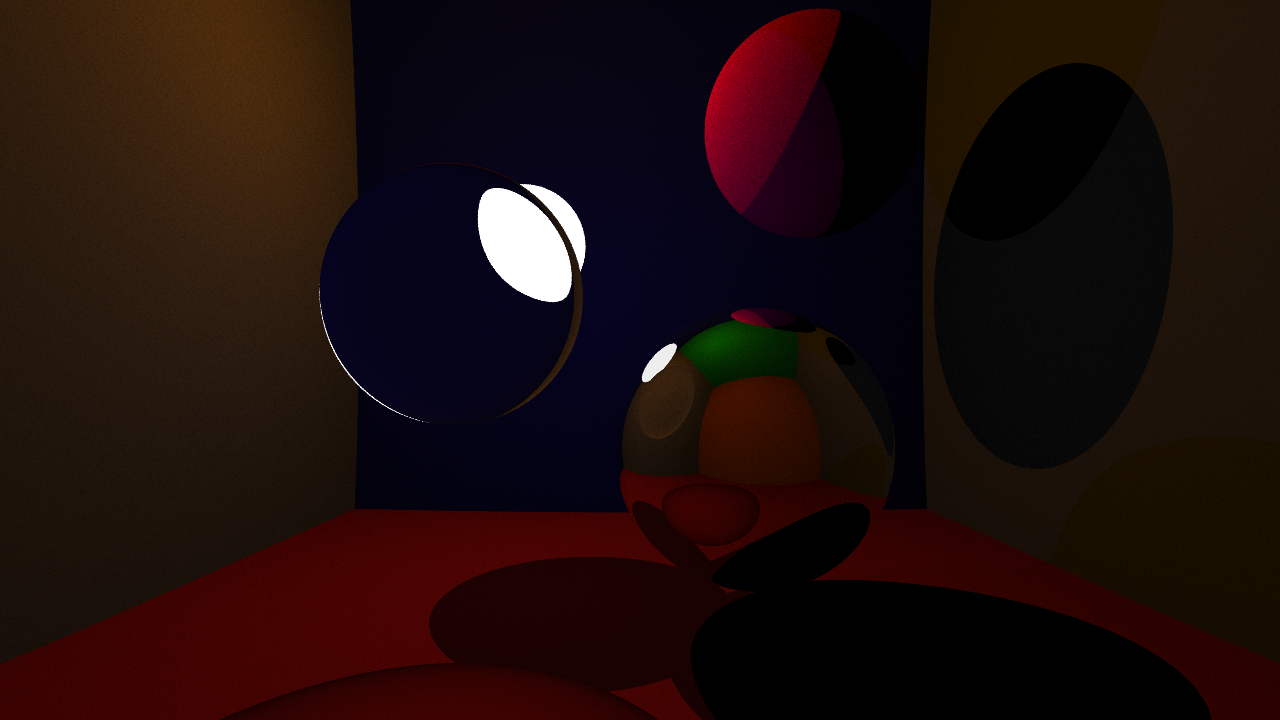
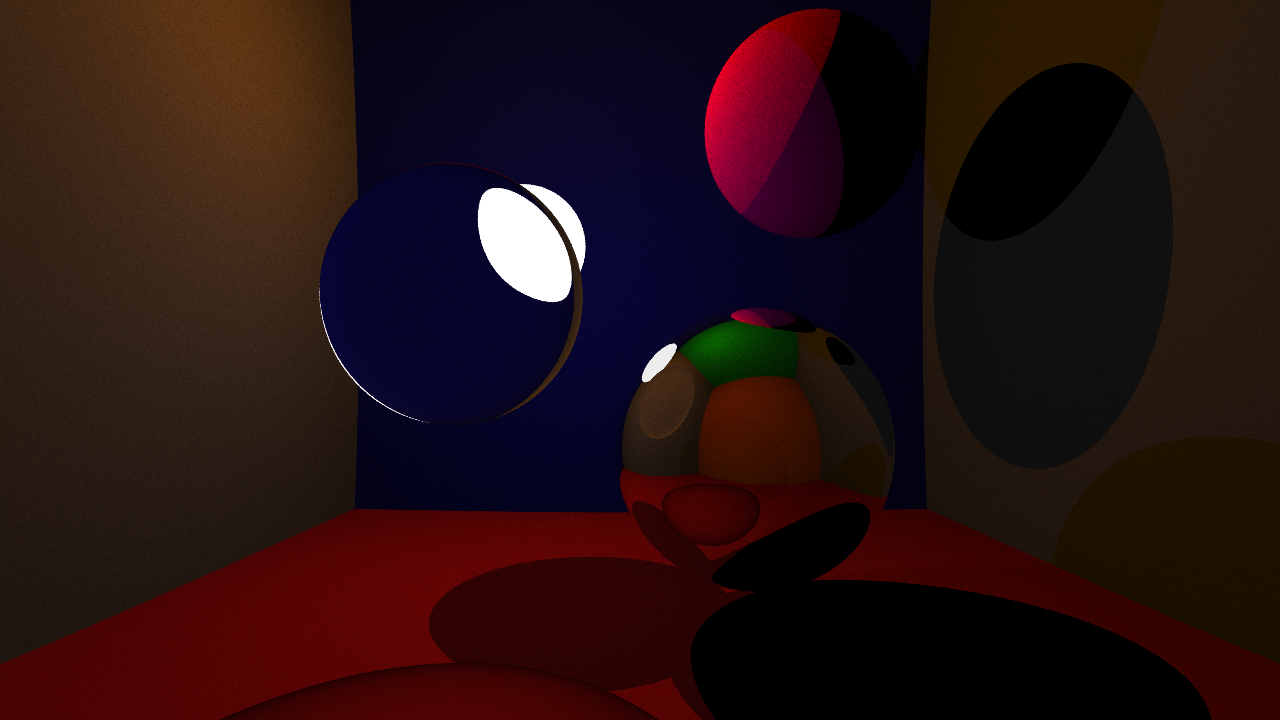
better pic

Changed region(s): [[0.5312, 0.0, 0.625, 0.3056], [0.5625, 0.4278, 0.5938, 0.4583]]

diff --git a/main.cpp b/main.cpp
@@ -202,7 +202,7 @@ void initScene(Sphere *elements) {
   elements[2].diff = float3(1.0f, 1.0f, 1.0f);
   elements[2].spec = 0.0f;
   elements[2].iRefr = 0.0f;
-  elements[2].light = 2000.0f;
+  elements[2].light = 6000.0f;
 
   // transparent ball
   elements[3].Centre = float3(-29.0f, 40.0f, 5.0f);
@@ -218,7 +218,7 @@ void initScene(Sphere *elements) {
   elements[4].diff = float3(1.0f, 0.3f, 0.0f);
   elements[4].spec = 0.0f;
   elements[4].iRefr = 0.0f;
-  elements[4].light = 40000.0f;
+  elements[4].light = 60000.0f;
 
   // Wall down
   elements[5].Centre = float3(0.0f, 2000.0f, 0.0f);
